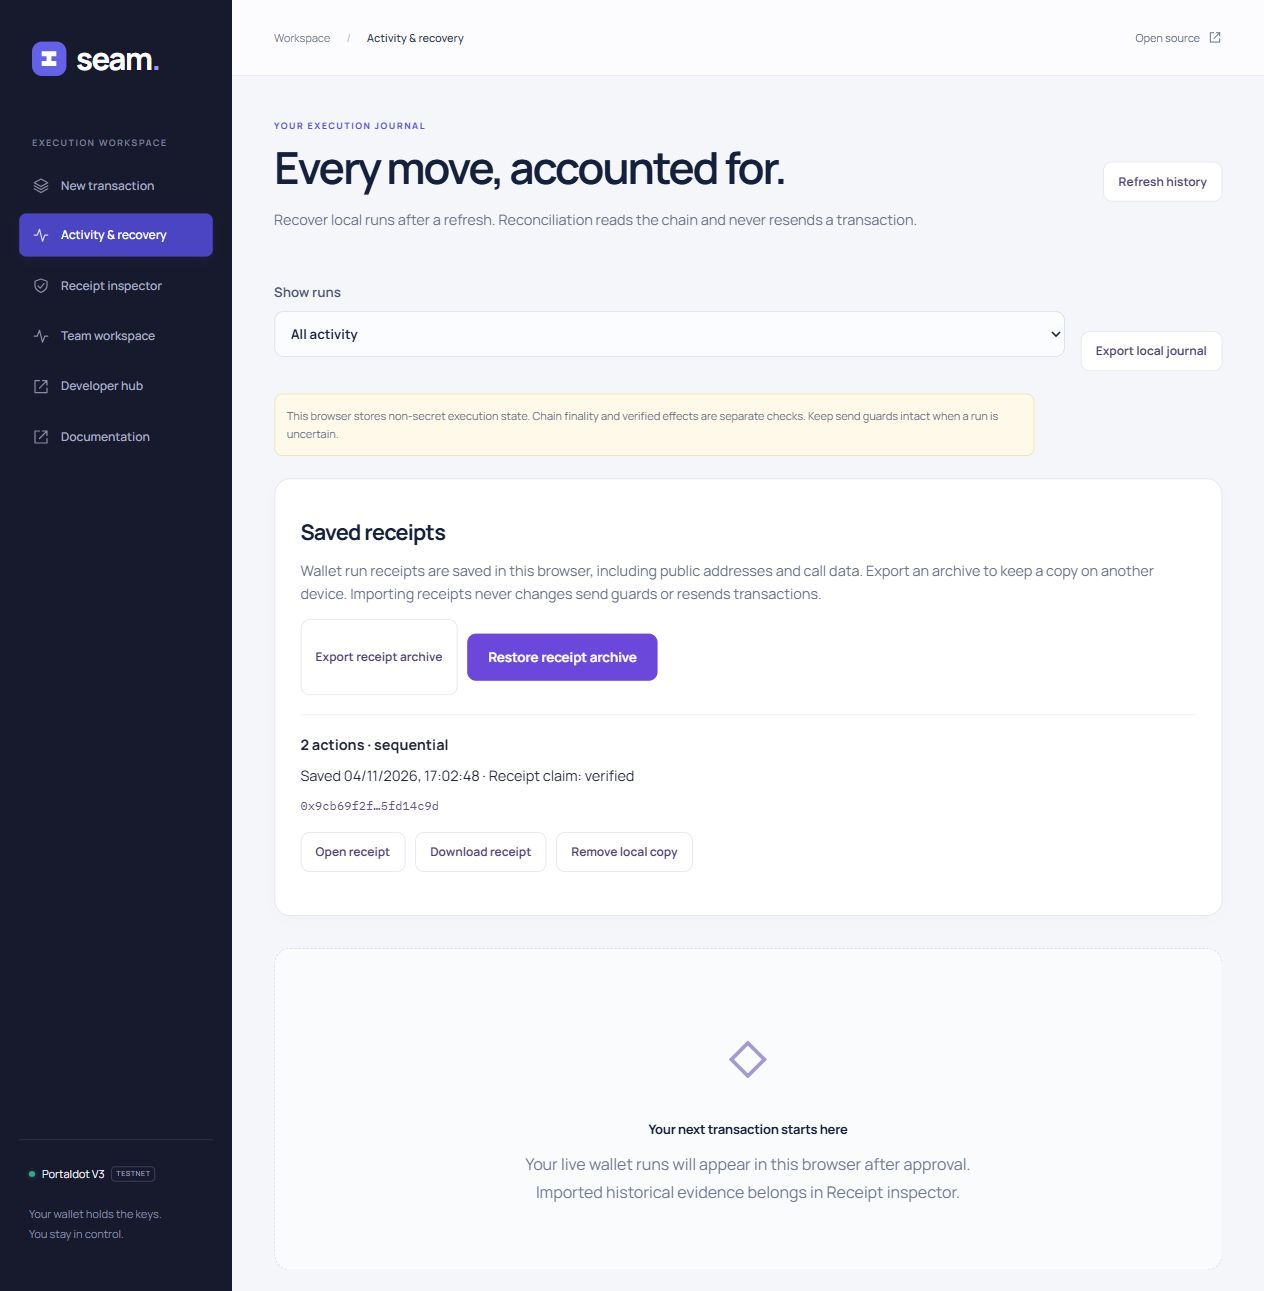
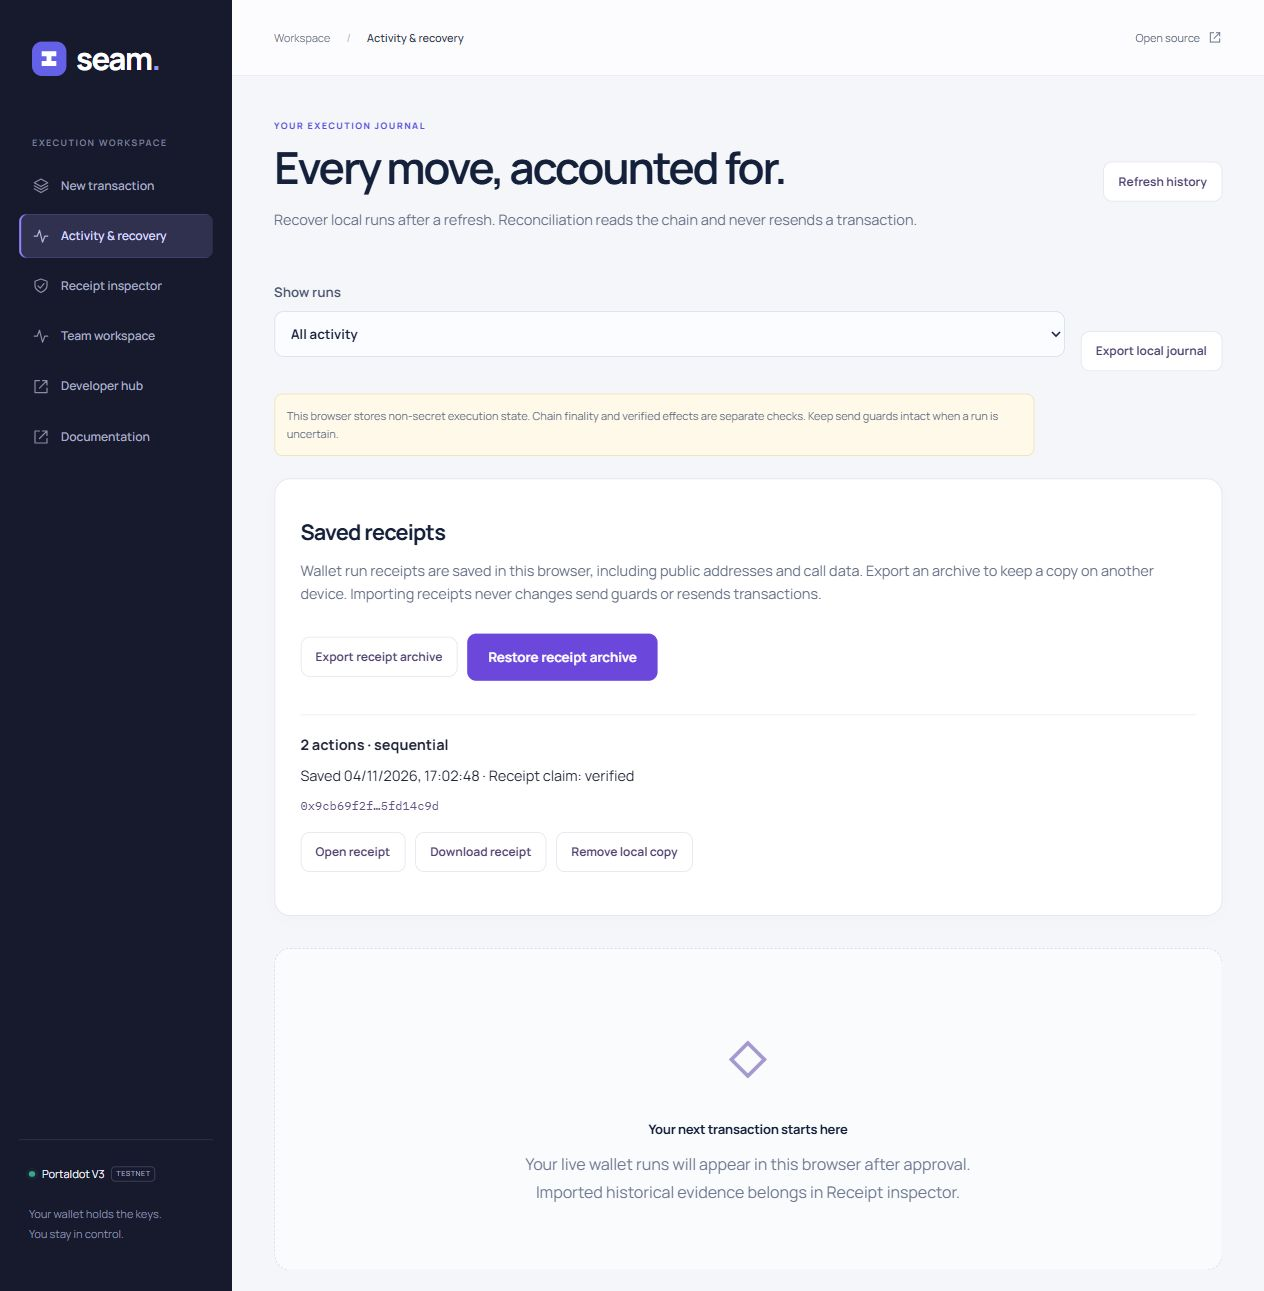
Align receipt archive actions and record final deployment proof

Changed region(s): [[0.0, 0.1549, 0.1851, 0.2169]]

diff --git a/packages/console/src/workspace.css b/packages/console/src/workspace.css
@@ -1578,6 +1578,7 @@ html {
 }
 .button-row {
   display: flex;
+  align-items: center;
   gap: 0.6rem;
   flex-wrap: wrap;
   margin-top: 0.5rem;

diff --git a/docs/resilience-release-2026-11-04.md b/docs/resilience-release-2026-11-04.md
@@ -16,7 +16,7 @@ Production browser QA restored an archive, refreshed, reopened its receipt with 
 
 Local checks passed: **400 chain tests**, **313 console tests**, **13 control-plane tests**, root build, zero-warning lint and formatting. The chain suite retains 13 opt-in skips. The remaining compiler/policy/SDK suites are unchanged and run again in release CI. New regressions cover failover identity/runtime/deadlines, forbidden submission retries, receipt archive reopening/atomic imports/secret rejection, current-versus-old revisions, missing storage, encrypted remote read-back, tampering/wrong keys, retention, existing-target refusal, full restored data/authentication and operator-only backup access.
 
-Frontend: `dpl_H6UoCx1axbWfwzPxykauGakXCCPt`.
+Frontend: `dpl_EA4RfTXrsNQ9BdHLLQCiSWFKLu27`.
 
 Backend: `4dfeaf09-9eda-4974-9d0e-1ed6bd0aa272`.
 
